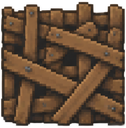
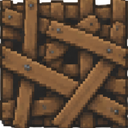
Join walls into one wall and lay the gate along it
Walls stood as separate boxes with gaps between them, and the gate faced
the wrong way. Wall and gate pictures are re-cut to the whole tile (walls
without the post stubs along their top), and StructureView trims their
outline off every side that meets another wall piece, so a row of mixed
walls reads as one wall. A gate in a wall running up and down is drawn a
quarter turn round. The build ghost joins too. Drawing only.

diff --git a/tools/slice_world.py b/tools/slice_world.py
@@ -10,8 +10,8 @@ a black caption under each picture, a turret head on its own and the long
 raised bed on its own. Captions are the only short things on a sheet — every
 picture is taller than 70px, every line of text shorter than 40 — so they
 are dropped by height before `slice_icons.cut` gives each picture to its
-seed. Unlike an icon, a picture is cropped tight and keeps its shape: a wall
-has to reach the edge of its tile to meet the next one.
+seed. Unlike an icon, a picture is cropped tight and keeps its shape — except
+a wall or gate, which is the whole tile so the street can join it to the next.
 
     conda activate deadline-art      (python, pillow, numpy, scipy)
     python tools/slice_world.py path/to/building
@@ -46,6 +46,14 @@ HEAD = ("barrelsprite.png", "turret_head", (552, 656))
 # Pictures named after a piece in a state rather than a piece.
 STATES = {"gate_open", "turret_head"}
 
+# Pieces the street joins into one wall with their neighbours, so each is
+# the whole tile, stretched square. A wall is cut to its body first: the post
+# stubs along its top would otherwise stand up out of a joined wall at every
+# tile. A gate keeps its posts — they are what reads as a gate in the line.
+WALL_BODY = {"barricade", "woodWall", "stoneWall", "reinforcedWall", "metalWall"}
+WALL_WHOLE = {"gate", "gate_open"}
+BODY_FILL = 0.5     # a row or column is body where this much of it is solid
+
 # Pieces that arrived with no build-menu icon: theirs is cut from the same
 # picture, padded square the way `slice_icons` pads every icon.
 NEEDS_ICON = {"longBed"}
@@ -64,6 +72,17 @@ def fit(rgba):
     k = SIZE / max(h, w)
     size = (max(1, round(w * k)), max(1, round(h * k)))
     return Image.fromarray(rgba, "RGBA").convert("RGBa").resize(size, Image.LANCZOS).convert("RGBA")
+
+
+def wall(rgba, name):
+    """The whole tile: cut to the body where a wall has stubs, then stretched square."""
+    if name in WALL_BODY:
+        solid = rgba[..., 3] > SOLID
+        rows = np.nonzero(solid.mean(1) >= BODY_FILL)[0]
+        cols = np.nonzero(solid.mean(0) >= BODY_FILL)[0]
+        rgba = rgba[rows.min():rows.max() + 1, cols.min():cols.max() + 1]
+    img = Image.fromarray(np.ascontiguousarray(rgba), "RGBA").convert("RGBa")
+    return img.resize((SIZE, SIZE), Image.LANCZOS).convert("RGBA")
 
 
 def head(src):
@@ -91,7 +110,8 @@ def main():
         sheet = np.array(Image.open(src / file).convert("RGBA"))
         uncaption(sheet)
         for name, rgba in cut(sheet, seeds).items():
-            fit(rgba).save(folder / f"{name}.png", optimize=True)
+            joined = name in WALL_BODY or name in WALL_WHOLE
+            (wall(rgba, name) if joined else fit(rgba)).save(folder / f"{name}.png", optimize=True)
             if name in NEEDS_ICON:
                 square(rgba).save(ROOT / "art" / "structures" / f"{name}.png", optimize=True)
             written.append(name)

diff --git a/PROJECT.md b/PROJECT.md
@@ -5,7 +5,7 @@ update it at the end of one. It says what we are building, where we are, why
 past decisions were made, what is next, and what we have learned. If the code
 contradicts it, the code is right — fix this file and say so.
 
-- **Last updated:** 2026-09-15, **built pieces look like themselves** — the owner's top-down pictures of every buildable stand in the street with their damage, crops and power drawn over them, and the **Long Raised Bed** covers two tiles and turns with R (§4). Before that, **crafting takes a moment, and shows it** — CRAFT turns into a filling bar with CANCEL beside it, the card fills its strip, and "✓ Hatchet crafted" appears under the button, because the screen covers the HUD and the owner pressed CRAFT several times seeing nothing (§4). Before that, **the bench keeps its CRAFT button on the window** — a card grid is as wide as its column and no wider, so a page of long-named recipes wraps onto more rows instead of pushing the detail panel off screen (§4, the UI redesign; §8). Before that, 2026-09-14, **a friend stays in the game** — a guest's scene now pumps its socket every step, so a friend over the internet is no longer timed out five seconds after joining, and a host reading a menu still lets a friend in (§4, co-op; §8). Before that, **the icon set** — all 143 things you can hold or build have real art: 124 item icons in `art/items/`, 19 build-menu pictures in `art/structures/` (a new seam beside `Items.icon_of`), cut from twelve generated sheets by `tools/slice_icons.py`, drawn with mipmaps. Before that: 2026-09-11, **the UI redesign** — every screen rebuilt to the design handoff (`tasks/ui-redesign-handoff/`) as Control nodes on one theme built from `src/ui/ui.gd`, at a 1920x1080 design resolution that fits any window without anything going off screen: the HUD, the pack, crafting and the bench as one three-column screen, the build menu and its slim placement bar, the character sheet, the crew, the town map, the title with its save slots, the pause menu and the settings. Before that, 2026-09-10, **weapon levels and the boss's drops** — weapons go from level 1 to 6 at the bench that makes them, more damage and more uses each level, and levels 4 to 6 cost Precision Parts, which only come out of the School past its boss; the boss drops a list of chances, two boss-only weapons among them (PR E). Before that, **the Coach, the School's phase boss** — a slam, a charge that stuns itself on a wall, a fan of dodgeballs and a whistle for the team, a second half that kills the gym lights and an overtime that speeds it up, every move telegraphed for at least 0.7s and drawn from events so a guest sees what the host does (PR C). Before that, **into the School together** — the whole party goes in at the door and comes out together, a guest's game follows the host's into the same building from its seed, and a friend who fell in there is brought out with everything (PR D). Before that, **Pine Hollow High, the first instanced dungeon** — a sealed, roofed building north of the suburbs whose door loads a map of its own, where the boss is the only way out with what you find (PR B of five; the design is `tasks/instanced-dungeons.md`). Before that, **a dash on Space** — a committed burst with i-frames, the first piece of the instanced dungeons (`tasks/instanced-dungeons.md`, recovered from the prototype, with the owner's decisions of the day in its §0 and the five-PR plan in `tasks/todo.md`). Before that, the owner's second playtest: night is genuinely black past your torch, and a torch in your off-hand lights itself when the dark comes and goes out at dawn. Before that, content out of `config.gd` into `data/*.json` with a local editor (`tools\edit`: views by bench and weapon class, item art, loot odds both ways), and the roadmap moved from Notion to Linear. Before that, the owner's first playtest: Mutation three times slower, near-black nights and a torch you can see, E opens a workbench (the upgrade is a button in it), C is the six basics, a Hatchet lasts about a hundred trees, click food to eat, and nothing is built on litter. Before that, on 2026-09-09, the Notion catalogue restructured to eleven categories with a tab each, and weapons split into six melee and eight ranged classes. Before that, bugfix round one: the car key, sight through walls, litter on tarmac, zombies in the base, and a dev menu behind F1. The HOST page also names your public address when UPnP will not
+- **Last updated:** 2026-09-15, **walls join** — a row of walls is one wall with no gaps, and a gate lies along the wall it stands in, turning with a wall that runs up and down (§4). Before that, **built pieces look like themselves** — the owner's top-down pictures of every buildable stand in the street with their damage, crops and power drawn over them, and the **Long Raised Bed** covers two tiles and turns with R (§4). Before that, **crafting takes a moment, and shows it** — CRAFT turns into a filling bar with CANCEL beside it, the card fills its strip, and "✓ Hatchet crafted" appears under the button, because the screen covers the HUD and the owner pressed CRAFT several times seeing nothing (§4). Before that, **the bench keeps its CRAFT button on the window** — a card grid is as wide as its column and no wider, so a page of long-named recipes wraps onto more rows instead of pushing the detail panel off screen (§4, the UI redesign; §8). Before that, 2026-09-14, **a friend stays in the game** — a guest's scene now pumps its socket every step, so a friend over the internet is no longer timed out five seconds after joining, and a host reading a menu still lets a friend in (§4, co-op; §8). Before that, **the icon set** — all 143 things you can hold or build have real art: 124 item icons in `art/items/`, 19 build-menu pictures in `art/structures/` (a new seam beside `Items.icon_of`), cut from twelve generated sheets by `tools/slice_icons.py`, drawn with mipmaps. Before that: 2026-09-11, **the UI redesign** — every screen rebuilt to the design handoff (`tasks/ui-redesign-handoff/`) as Control nodes on one theme built from `src/ui/ui.gd`, at a 1920x1080 design resolution that fits any window without anything going off screen: the HUD, the pack, crafting and the bench as one three-column screen, the build menu and its slim placement bar, the character sheet, the crew, the town map, the title with its save slots, the pause menu and the settings. Before that, 2026-09-10, **weapon levels and the boss's drops** — weapons go from level 1 to 6 at the bench that makes them, more damage and more uses each level, and levels 4 to 6 cost Precision Parts, which only come out of the School past its boss; the boss drops a list of chances, two boss-only weapons among them (PR E). Before that, **the Coach, the School's phase boss** — a slam, a charge that stuns itself on a wall, a fan of dodgeballs and a whistle for the team, a second half that kills the gym lights and an overtime that speeds it up, every move telegraphed for at least 0.7s and drawn from events so a guest sees what the host does (PR C). Before that, **into the School together** — the whole party goes in at the door and comes out together, a guest's game follows the host's into the same building from its seed, and a friend who fell in there is brought out with everything (PR D). Before that, **Pine Hollow High, the first instanced dungeon** — a sealed, roofed building north of the suburbs whose door loads a map of its own, where the boss is the only way out with what you find (PR B of five; the design is `tasks/instanced-dungeons.md`). Before that, **a dash on Space** — a committed burst with i-frames, the first piece of the instanced dungeons (`tasks/instanced-dungeons.md`, recovered from the prototype, with the owner's decisions of the day in its §0 and the five-PR plan in `tasks/todo.md`). Before that, the owner's second playtest: night is genuinely black past your torch, and a torch in your off-hand lights itself when the dark comes and goes out at dawn. Before that, content out of `config.gd` into `data/*.json` with a local editor (`tools\edit`: views by bench and weapon class, item art, loot odds both ways), and the roadmap moved from Notion to Linear. Before that, the owner's first playtest: Mutation three times slower, near-black nights and a torch you can see, E opens a workbench (the upgrade is a button in it), C is the six basics, a Hatchet lasts about a hundred trees, click food to eat, and nothing is built on litter. Before that, on 2026-09-09, the Notion catalogue restructured to eleven categories with a tab each, and weapons split into six melee and eight ranged classes. Before that, bugfix round one: the car key, sight through walls, litter on tarmac, zombies in the base, and a dev menu behind F1. The HOST page also names your public address when UPnP will not
 - **Repo:** https://github.com/dunnston/zombie-game-godot
 - **Owner:** dunnston
 - **Engine:** Godot 4.7.2, GDScript, 2D
@@ -259,6 +259,30 @@ What each row was measured against is in `tasks/port-inventory.md` (history now)
 ---
 
 ## 4. What is built
+
+### Walls join, and a gate lies along its wall (2026-09-15)
+
+The owner's first look at the street art: walls stood as separate boxes with
+gaps between them, and the gate looked wrong and faced the wrong way.
+
+- **A wall or gate fills its tile and joins its neighbours.**
+  `StructureView.joins(type)` is every `wall` piece and the gate, open or shut.
+  `slice_world.py` cuts those pictures to the whole tile, stretched square — a
+  wall to its body first (`WALL_BODY`), since the post stubs along its top
+  would stand up out of a joined wall at every tile; the gate keeps its posts.
+  `join_mask` reads the four neighbours, and `_draw_joined` trims the picture's
+  outline (`JOIN_TRIM`, 5px of 128) off each side that meets another piece of
+  wall, so a row of mixed walls reads as one wall with one outline round it.
+  Other pieces are fitted as before.
+- **A gate turns with its wall.** Square pieces never turn (`rot` is always
+  0), so the gate follows its neighbours instead: wall above or below and
+  none beside, and it is drawn a quarter turn round (`gate_turned`). Drawing
+  only — nothing in the sim, the wire or the save changed. A wall's picture
+  never turns; its boards run on either way.
+- The build ghost of a wall or gate joins the wall it would stand in.
+- The smoke's `structure_art` layout turns its wall row down a corner with a
+  gate in it, and asserts the row's join masks and that the row gate lies flat
+  and the column gate turned.
 
 ### Built pieces look like themselves, and a bed two tiles long (2026-09-15)
 
@@ -1853,6 +1877,7 @@ Phases 1–4 respecting it.
 | 2026-09-14 | Structure art gets its own folder, `art/structures/`, not `art/items/` | Buildables are not items: `icons_test` rightly fails a file in `art/items/` named after nothing in the item registry, and the two sets are drawn in different places. | Yes |
 | 2026-09-14 | Art is drawn linear with mipmaps, everywhere else stays nearest | Nearest-neighbour downscaling 128→30px broke the stone knife, the helmets and the four walls into noise in a side-by-side; a box-filtered version kept every silhouette. Set per drawing node, so the world's hard edges are untouched. | Yes |
 | 2026-09-15 | Built pieces are drawn as the owner's top-down pictures, with their state drawn over them in code | The icon set's pictures were three-quarter views, so the street kept code shapes; these are top-down and the owner made them for the street. What a piece is doing — damage, a crop, a turret's aim, power — is still code, because a picture cannot show it. No picture still means the old drawing. | Yes, delete a file |
+| 2026-09-15 | Walls and gates fill their tile and trim their outline where they meet; a gate turns to follow its neighbours rather than with R | The owner saw gaps between walls and a gate facing the wrong way. Trimming a stretched picture's edge per side keeps the art's outline round the outside of a wall, where an autotile set would have needed new art. Following the neighbours makes a gate right with no key to learn, and keeps "a square piece's `rot` is 0" true, so nothing outside `StructureView` changed. | Yes |
 | 2026-09-15 | A piece may cover several tiles: `w`/`h` in data, `rot` on the piece, top-left anchor, every tile in `grid` | The owner asked for a two-tile bed now. Anchoring at the top-left and pointing every tile at one piece kept `at_tile`, `pos` and every save and wire key working unchanged, where a piece per tile would have needed linking and a shared HP. | Yes |
 | 2026-09-15 | The Long Raised Bed is one planting with a 2.5x harvest for less than two beds cost, and R turns it | The owner's three calls, over two crops in one frame or a looks-only piece, and over horizontal-only. R is reload's key, borrowed while placing, so there is no second binding on it. | Yes, numbers in `data/` |
 | 2026-09-15 | The move keys follow the cursor by default — all four, not just Forward — with a setting to go back | The owner asked for Forward toward the look direction and chose all-relative with a toggle over Forward-only or no option: a mixed scheme feels wrong the moment W and D are held together. Turned in `LocalInput` rather than `PlayerSim`, because cars read the same `mx`/`my` as throttle and steering, and a world-space intent keeps the wire, guest prediction and the Lurch untouched. | Yes, one setting |
@@ -2531,6 +2556,7 @@ moment the parent merges.
 
 | Date | What |
 | --- | --- |
+| 2026-09-15 | **Walls join, and a gate lies along its wall.** Owner feedback on the street art: gaps between walls, a gate that looked wrong and faced the wrong way. Wall and gate pictures are re-cut to the whole tile (`slice_world.py`, walls without their post stubs), `StructureView` trims their outline on every side that meets another wall piece, and a gate in a wall running up and down is drawn turned; the ghost joins too. Drawing only. Smoke `structure_art` gains a corner and a turned gate, with asserts on the joins |
 | 2026-09-15 | **Built pieces look like themselves, and a bed two tiles long.** The owner's top-down pictures of every buildable are in `art/world/` (cut by `tools/slice_world.py`), drawn by `StructureView` fitted to the piece's tiles with damage, flash, crops, rings and labels over them; an open gate has its own picture and the turret's head turns on its mount; the build ghost shows the picture. Pieces can cover several tiles (`w`/`h`, `rot`, top-left anchor, every tile in `grid`), R turns one while placing, and the turn is in the intent, the wire, the save and the snapshot. New buildable: the Long Raised Bed (`longBed`), one planting over two tiles, harvest x2.5, Wood 30 · Sticks 12 · Fiber 10. Menu icons unchanged but for the new bed's. Tests in `building_test`, `farming_test`, `net_test`, `icons_test`; smoke `structure_art` and `long_bed_ghost` |
 | 2026-09-15 | **Crafting takes a moment, and shows it.** The owner pressed CRAFT several times because nothing seemed to happen: the notice went to the HUD, which the craft screen covers. Each craft is now a 1.5s channel (`PlayerSim.crafting`, `Crafting.start`/`tick`/`cancel`, `PLAYER.craft_time`, stat `craft_time_mul`), paid for when it lands, stopped by a hit, getting into a car, a bench you walk off or CANCEL. CRAFT becomes a filling bar with CANCEL beside it, the card fills its strip, a "✓ crafted" / "✕ interrupted" line sits under the button (mend and upgrade too), and the HUD prompt shows the bar with the screen closed. Co-op: protocol 8, `cancel_craft`, the bar as the player record's fifth string, the pack sent the step a guest's craft lands. Nine tests in `crafting_test`, a tighter `net_test`, and two smoke checkpoints (93) |
 | 2026-09-15 | **Loot no longer comes through walls.** Ground piles were pulled and collected by distance alone and moved with no collision, so a pile on the far side of a wall slid through it to you. The magnet and the pickup now need line of sight (feet rule, built walls included), and a moving pile stops against anything solid. `test_loot_does_not_come_to_you_through_a_wall` fails against the old code (the pile ended up on your side). **Codex pass (PR #48):** a wall built on top of a pile buried it for good, since from inside the wall it could see no one to be pulled toward; a buried pile is now put out beside the wall, and `test_a_wall_built_on_a_pile_puts_it_out_beside_the_wall` fails without that. 739 tests. |

diff --git a/art/world/README.md b/art/world/README.md
@@ -16,8 +16,12 @@ doing — damage, a crop, power, a turret's aim — is drawn over the picture.
 Any other file name fails `tests/icons_test.gd`; the states a piece may have
 are `Structures.WORLD_STATES`.
 
-Draw the piece to fill its tiles: a wall has to reach the edge of its tile to
-meet the next one. Transparent background. The pictures are drawn with
+Draw the piece to fill its tiles. A wall or gate is stretched to the whole
+tile, and wherever it meets another wall piece the street trims off a 4px
+outline (of 128) on that side, so the row reads as one wall: give those
+pictures an outline about that thick, and no stubs past the edge. A gate is
+drawn with its posts left and right; the street turns it when its wall runs
+up and down. Transparent background. The pictures are drawn with
 mipmaps, like the icons, so 128px on the long side shrinks cleanly.
 
 The current set was cut from the owner's `building/` sheets by
